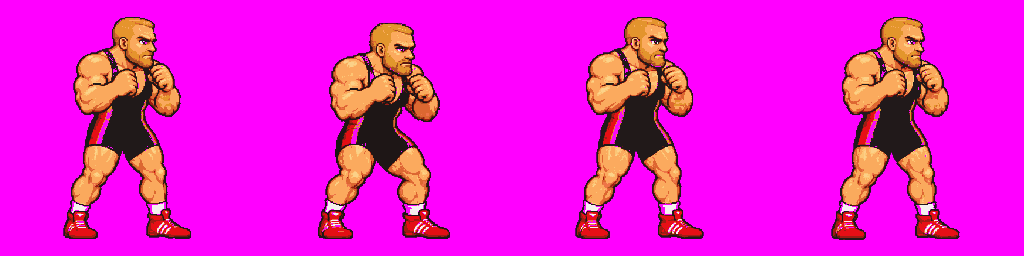
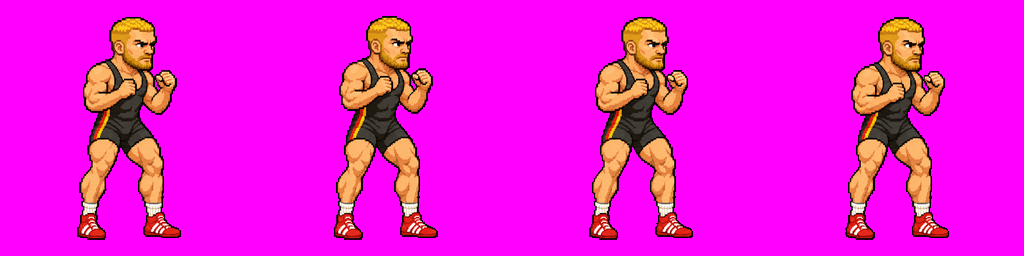
New art round: Tiago and Konrad idle from master-based generator sheets; old walk/block sheets removed
normalize_sheet: mask each slot so wide figures do not pick up the neighbouring figure

Claude-Session: https://claude.ai/code/session_01C1fwd4EURPGqUfp38heDDX

diff --git a/tools/normalize_sheet.py b/tools/normalize_sheet.py
@@ -49,7 +49,7 @@ def main():
     col[bg] = imf.OUTLINE_RGB
     col = np.pad(col, ((pad, pad), (pad, pad), (0, 0)), mode='edge')
     msk = np.pad((~bg).astype(np.uint8) * 255, pad, mode='constant')
-    src_c, src_m = Image.fromarray(col), Image.fromarray(msk)
+    src_c = Image.fromarray(col)
     out = Image.new('RGB', (imf.CELL * a.frames, imf.CELL), KEY)
     for k in range(a.frames):
         cx = (k + 0.5) * slot
@@ -58,7 +58,11 @@ def main():
         sy0 = pad + foot + 1 - (imf.BASELINE + 1) / scale
         box = (sx0, sy0, sx0 + imf.CELL / scale, sy0 + imf.CELL / scale)
         c = np.array(src_c.resize((imf.CELL, imf.CELL), Image.LANCZOS, box=box))
-        m = np.array(src_m.resize((imf.CELL, imf.CELL), Image.BOX, box=box)) >= 128
+        # only this slot's figure: the cell window can reach into the neighbouring slots
+        mk = msk.copy()
+        mk[:, :pad + round(k * slot)] = 0
+        mk[:, pad + round((k + 1) * slot):] = 0
+        m = np.array(Image.fromarray(mk).resize((imf.CELL, imf.CELL), Image.BOX, box=box)) >= 128
         c[~m] = KEY
         out.paste(Image.fromarray(c), (k * imf.CELL, 0))
     out.save(a.dst)
